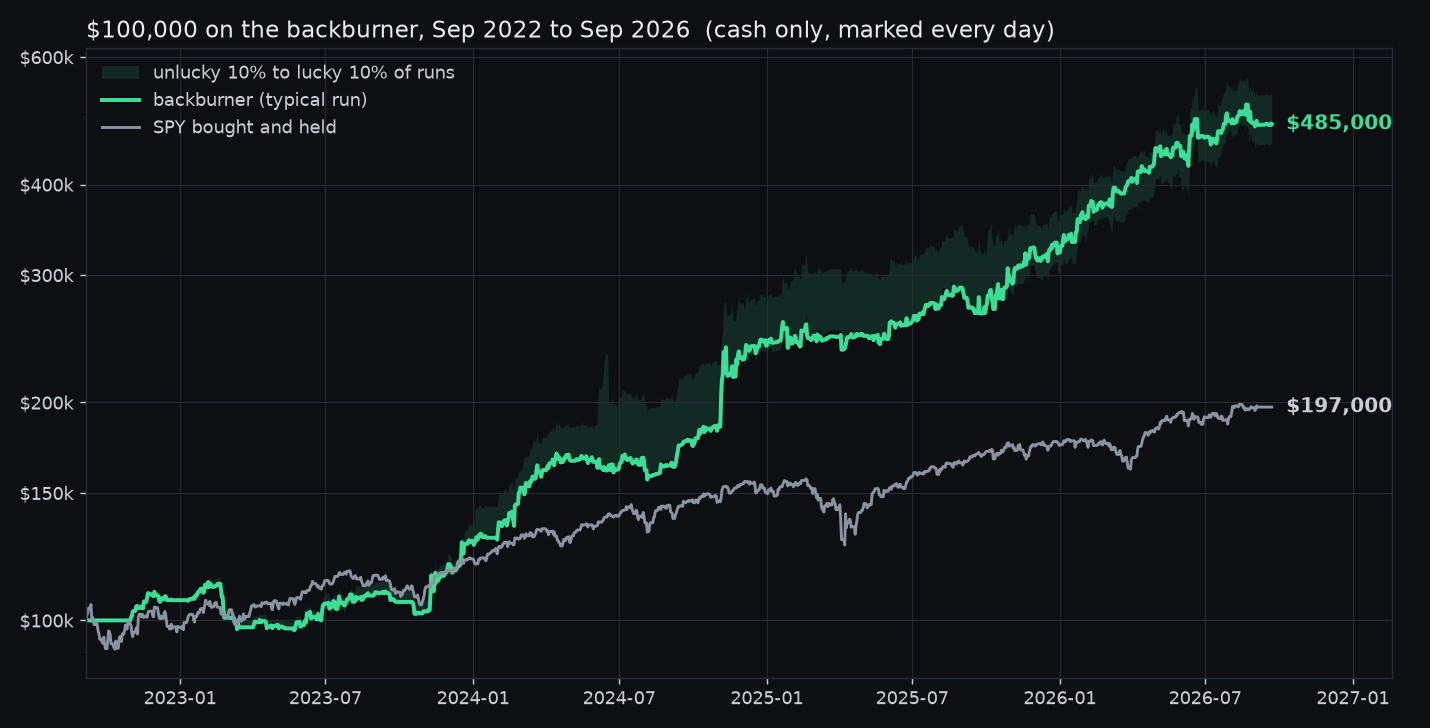
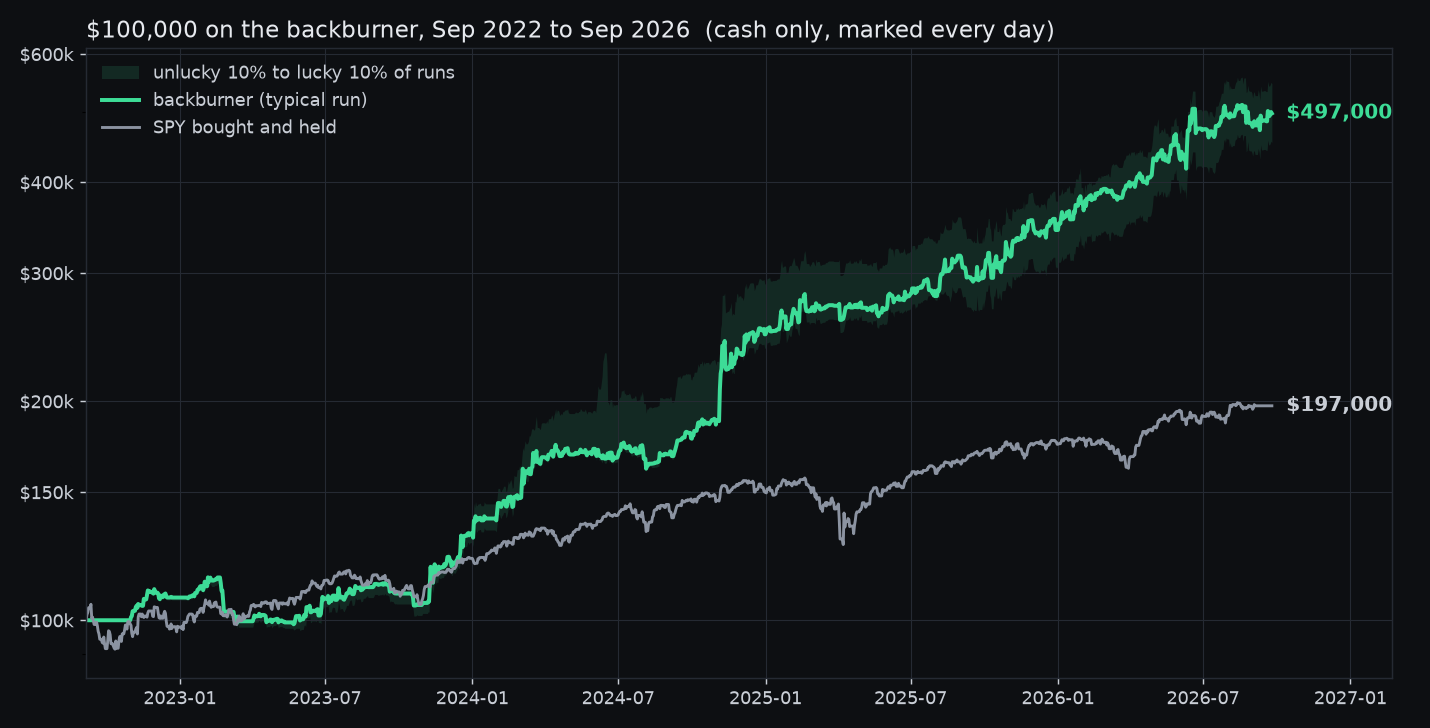
Headline account rerun with all of today's changes: +48.6% a year, worst drop -13.8% (page's rules)

diff --git a/CLAUDE.md b/CLAUDE.md
@@ -1227,6 +1227,16 @@ Edit it freely. If a rule here and a memory note disagree, this file wins.
     "3x" for futures again: say HOW MANY CONTRACTS a bucket buys (a $20k bucket: 2 micro oil = ~$18k of oil; 6 = ~$55k;
     the margin allows ~30).
 
+57. THE HEADLINE, RERUN WITH EVERYTHING FROM 2026-09-26 (new names in, MGC/SIL out, crypto and ICE history topped up).
+    backburner_sizing (1,661 trades, 20 runs) and backburner_curve (the page's exact account: 5 buckets, whole bucket at 30,
+    later buys on top, 3-bucket cap per coin; futures bought like stocks -- #56 has them in contracts):
+        the page's account, $100k Sep 2022 -> $497k, +48.6% a year, worst drop -13.8%  (SPY $197k, +18.2%, -19.0%)
+        each year: 2022 +7%, 2023 +22%, 2024 +88%, 2025 +39%, 2026 +45%
+        sizing table, full slot at 30 + later buys on top: 3 at once +51.5% / -16.6%, 5 +48.3% / -14.5%, 8 +40.9% / -10.6%,
+        10 +34.3% / -9.5%. Old way (half waiting at 20), 5 at once: +25.7% / -8.1%.
+    Up from #53's +46.6% / -14.7%. 2024 (the crypto run) is still half the story; four mostly rising years; survivorship
+    (#35) still applies to the stock list.
+
 42. JOEY'S RATIO-CHART WEBINAR (2026-09-22, Jay sent the link with Joey's post "ratio charts continue to be one of the
     most powerful and underused tools in the market"). Pulled, read in full, distilled in TCG_METHOD.md #20. It is the
     4th of his four-part series and it says MY VERSION OF THE BIGGEST RULE ON THIS DESK IS TOO CRUDE:
